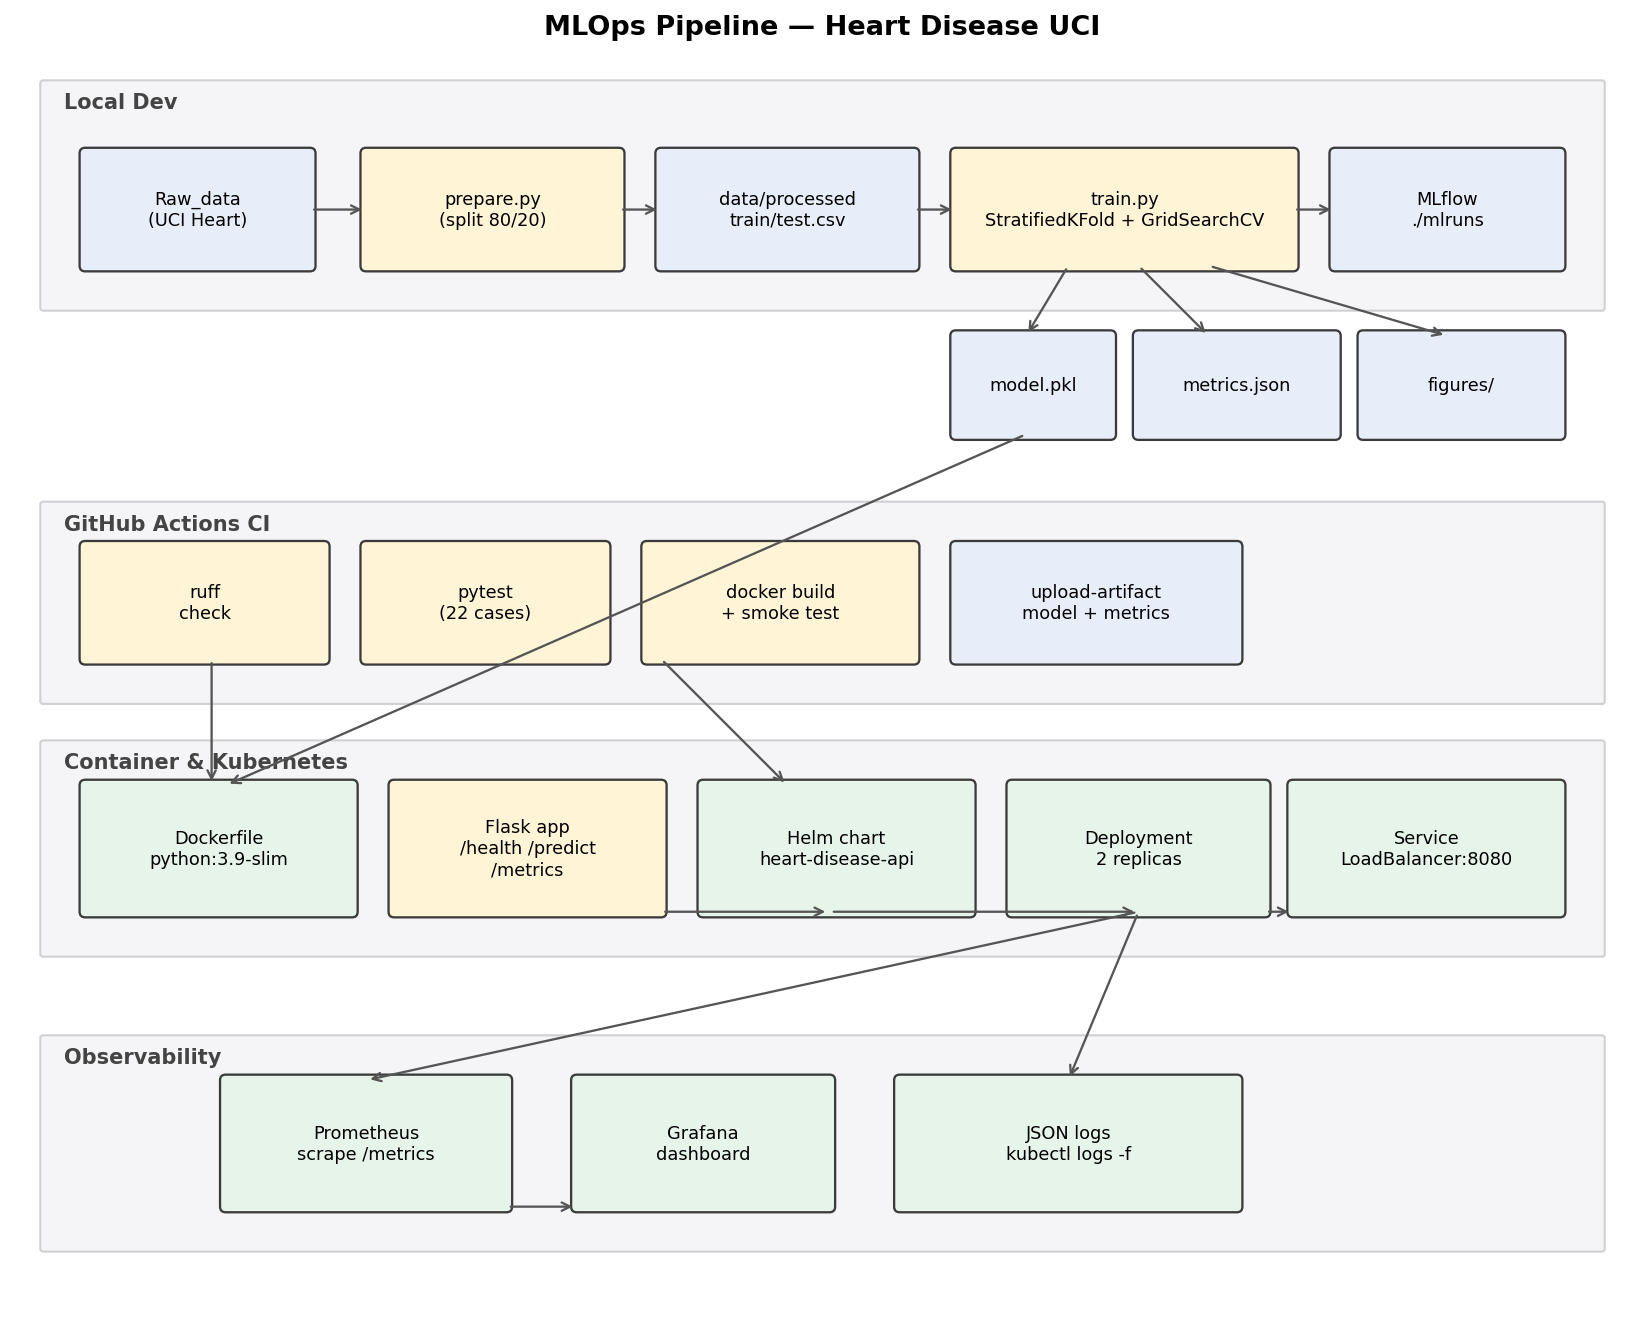
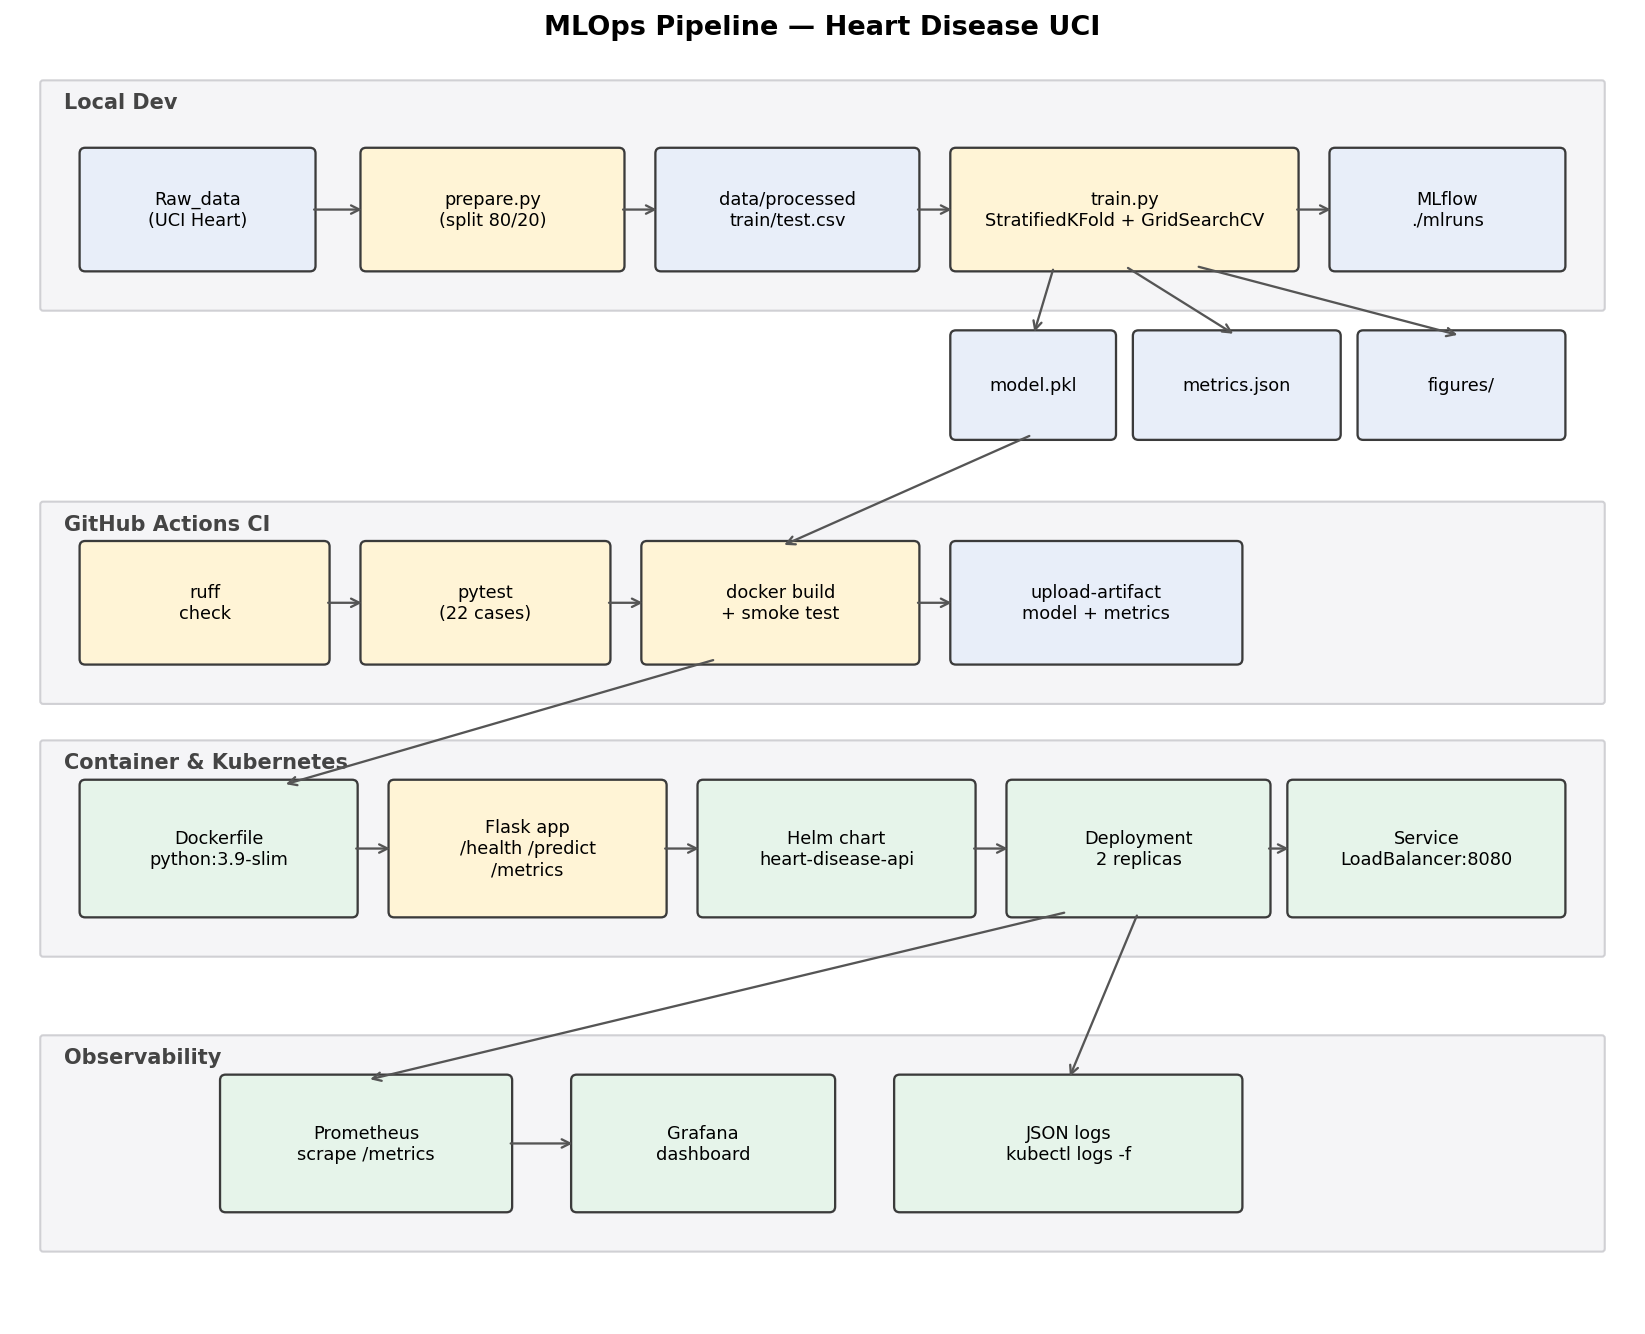
Artifacts are updated.

diff --git a/ML_Ops_assignment/scripts/generate_report.py b/ML_Ops_assignment/scripts/generate_report.py
@@ -87,8 +87,30 @@ SHOTS_K8S = [
      "/form returning a prediction with disease probability."),
     ("08_file_tree.png",
      "Repository tree showing the full project layout."),
-    ("09_docker_dektop.png",
-     "Docker Desktop dashboard showing the running container image."),
+    ("09_docker_dektop_Images.png",
+     "Docker Desktop Images tab - heart-disease-api:v2 (629 MB) alongside "
+     "the Kubernetes system images."),
+    ("10_docker_desktop_Kubernetes.png",
+     "Docker Desktop Kubernetes tab - desktop-control-plane node and "
+     "running pods."),
+]
+
+SHOTS_MLFLOW = [
+    ("01_experiments_list.png",
+     "MLflow UI - heart_disease_classification experiment in the sidebar "
+     "with the runs table loaded."),
+    ("02_runs_table.png",
+     "Runs table sorted by test_roc_auc - LR vs RF candidates with "
+     "best params and CV / test metrics as columns."),
+    ("03_run_overview.png",
+     "Best Logistic Regression run - parameters and metrics panels showing "
+     "best_params, 5 test scorers and 5 CV mean / std scorers."),
+    ("04_run_artifacts.png",
+     "Run artifacts tab - confusion_matrix.png and the serialised sklearn "
+     "Pipeline under model/."),
+    ("05_metrics_chart.png",
+     "Compare-runs view - parallel-coordinates plot of test_roc_auc and "
+     "cv_roc_auc_mean across the LR and RF candidates."),
 ]
 
 SHOTS_MON = [
@@ -118,17 +140,40 @@ SHOTS_MON = [
 
 
 ARCH_ARROWS = [
-    (2.1, 7.9, 2.5, 7.9), (4.3, 7.9, 4.6, 7.9), (6.4, 7.9, 6.7, 7.9),
-    (9.1, 7.9, 9.4, 7.9),
-    (7.5, 7.5, 7.2, 7.0), (8.0, 7.5, 8.5, 7.0), (8.5, 7.5, 10.2, 7.0),
-    (7.2, 6.3, 1.5, 3.8),                          # model -> Dockerfile
-    (1.4, 4.7, 1.4, 3.8),                          # CI lint -> docker build
-    (4.6, 4.7, 5.5, 3.8),                          # CI build -> docker
-    (4.6, 2.9, 5.8, 2.9),                          # Flask -> helm
-    (5.8, 2.9, 8.0, 2.9), (8.9, 2.9, 9.1, 2.9),
-    (8.0, 2.9, 2.5, 1.7),                          # deploy -> prometheus
-    (3.5, 0.8, 4.0, 0.8),                          # prom -> grafana
-    (8.0, 2.9, 7.5, 1.7),                          # deploy -> logs
+    # --- Row 1: Local Dev pipeline (horizontal, y = 7.9) ---
+    (2.1, 7.9, 2.5, 7.9),    # Raw_data -> prepare.py
+    (4.3, 7.9, 4.6, 7.9),    # prepare.py -> data/processed
+    (6.4, 7.9, 6.7, 7.9),    # data/processed -> train.py
+    (9.1, 7.9, 9.4, 7.9),    # train.py -> MLflow
+
+    # --- train.py -> three artifact boxes (down to y = 7.0) ---
+    (7.4, 7.5, 7.25, 7.0),   # train.py -> model.pkl
+    (7.9, 7.5, 8.7, 7.0),    # train.py -> metrics.json
+    (8.4, 7.5, 10.3, 7.0),   # train.py -> figures/
+
+    # --- Row 3: CI pipeline (horizontal, y = 5.1) ---
+    (2.2, 5.1, 2.5, 5.1),    # ruff -> pytest
+    (4.2, 5.1, 4.5, 5.1),    # pytest -> docker build
+    (6.4, 5.1, 6.7, 5.1),    # docker build -> upload-artifact
+
+    # --- model.pkl -> docker build (artifact baked into image) ---
+    (7.25, 6.3, 5.45, 5.5),
+
+    # --- docker build -> Dockerfile (CI produces the runtime image) ---
+    (5.0, 4.7, 1.9, 3.8),
+
+    # --- Row 4: Container & K8s pipeline (horizontal, y = 3.35) ---
+    (2.4, 3.35, 2.7, 3.35),  # Dockerfile -> Flask app
+    (4.6, 3.35, 4.9, 3.35),  # Flask app -> Helm chart
+    (6.8, 3.35, 7.1, 3.35),  # Helm chart -> Deployment
+    (8.9, 3.35, 9.1, 3.35),  # Deployment -> Service
+
+    # --- Deployment -> Observability (down to y = 1.7) ---
+    (7.5, 2.9, 2.5, 1.7),    # Deployment -> Prometheus (scrape /metrics)
+    (8.0, 2.9, 7.5, 1.7),    # Deployment -> JSON logs
+
+    # --- Prometheus -> Grafana (horizontal, y = 1.25) ---
+    (3.5, 1.25, 4.0, 1.25),
 ]
 
 
@@ -405,12 +450,25 @@ def build_report(metrics: dict) -> Document:
         "Random Forest: classifier__n_estimators in {100, 200} x "
         "classifier__max_depth in {None, 5, 10}.",
     ])
+    add_heading(doc, "3.3 Experiment tracking with MLflow", level=2)
     add_para(doc,
         "Every candidate run is logged to MLflow under the "
-        "heart_disease_classification experiment, recording all "
-        "hyperparameters, the best params, the CV mean and standard "
-        "deviation per scorer, the test metrics, the confusion matrix as "
-        "an image artifact, and the fitted Pipeline as a reusable model.")
+        "heart_disease_classification experiment via a file-backed "
+        "tracking store at ./mlruns. Each run records the full "
+        "hyperparameter grid and the chosen best_params; ten metrics "
+        "(five test scorers and five cross-validation mean / standard "
+        "deviation pairs); the confusion matrix as a PNG artifact; and "
+        "the fitted sklearn Pipeline serialised under model/. The run "
+        "with the highest test ROC-AUC is tagged selected=true and the "
+        "same Pipeline is also written to models/heart_model.pkl for "
+        "the serving layer to load at startup.")
+    add_para(doc,
+        "Reproducing the tracking UI is a single command: "
+        "mlflow ui --backend-store-uri ./mlruns --port 5000, then open "
+        "http://localhost:5000 in a browser. The screenshots below were "
+        "captured against the runs that produced the figures and metrics "
+        "elsewhere in this report.")
+    next_idx = add_screenshots(doc, "mlflow", SHOTS_MLFLOW, start_idx=6)
     doc.add_page_break()
 
     # ---- 4. Results ----
@@ -453,10 +511,12 @@ def build_report(metrics: dict) -> Document:
         "on the principle of parsimony given equivalent or better "
         "discriminative performance.")
     add_figure(doc, FIG_DIR / "cm_logistic_regression.png",
-               "Figure 4. Confusion matrix - Logistic Regression "
+               f"Figure {next_idx}. Confusion matrix - Logistic Regression "
                "(selected model).", width_cm=10)
     add_figure(doc, FIG_DIR / "cm_random_forest.png",
-               "Figure 5. Confusion matrix - Random Forest.", width_cm=10)
+               f"Figure {next_idx + 1}. Confusion matrix - "
+               "Random Forest.", width_cm=10)
+    next_idx += 2
     doc.add_page_break()
 
     # ---- 5. Engineering: serving, container, CI ----
@@ -528,7 +588,7 @@ def build_report(metrics: dict) -> Document:
         "logs, curl outputs from the endpoints, the browser-rendered "
         "prediction form, the project tree, and the Docker Desktop "
         "dashboard.")
-    next_idx = add_screenshots(doc, "k8s", SHOTS_K8S, start_idx=6)
+    next_idx = add_screenshots(doc, "k8s", SHOTS_K8S, start_idx=next_idx)
     doc.add_page_break()
 
     # ---- 7. Monitoring ----